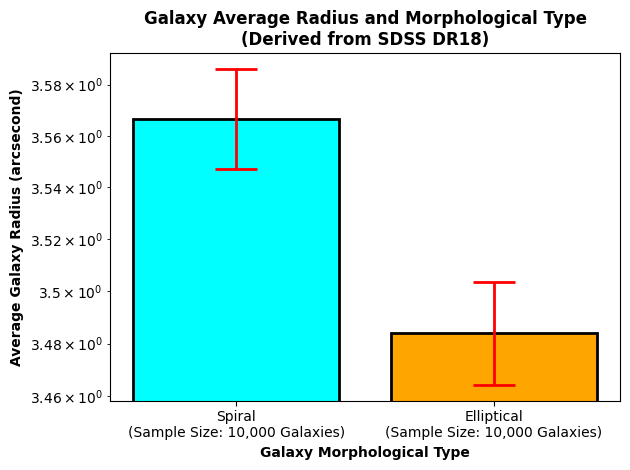
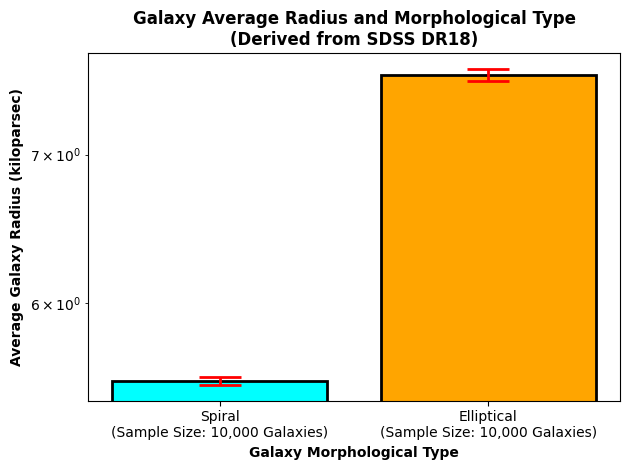
Updated radius calculation.
Instead of using the angular radius of a galaxy for this analysis, I converted the angular radius to the object's physical radius for better analysis using Astropy.

diff --git a/SurfaceStellarDensityandGalaxyTypesResearch/dataAnalysis.py b/SurfaceStellarDensityandGalaxyTypesResearch/dataAnalysis.py
@@ -1,5 +1,6 @@
 import math
 from scipy import stats
+from astropy.cosmology import Planck18 as p18
 import pandas as pd
 import numpy as np
 import matplotlib.pyplot as plt
@@ -11,6 +12,7 @@ ellipticalGalDataCSV = pd.read_csv('SkyserverData/SkyServerDR18_EllipticalStella
 # Eliminate any whitespace in the column names in the CSV files:
 spiralGalDataCSV.columns = spiralGalDataCSV.columns.str.strip()
 ellipticalGalDataCSV.columns = ellipticalGalDataCSV.columns.str.strip()
+
 
 # Unpack spiral galaxy data:
 spiralSloanID = spiralGalDataCSV['ID'].to_numpy()
@@ -30,19 +32,28 @@ ellipticalMedStelMassRaw = ellipticalGalDataCSV['MedianStellarMass_dex_solarmass
 ellipticalMedStelMass = np.power(10, ellipticalMedStelMassRaw)
 ellipticalDeVanRadRBand = ellipticalGalDataCSV['DeVancoulerGalRad_bandR_arcsec'].to_numpy()
 
+
 # Create galaxy morphology type array:
 galMorphTypeNames1 = np.array(["Spiral\n(Sample Size: 10,000 Galaxies)", "Elliptical\n(Sample Size: 10,000 Galaxies)"])
 galMorphTypeNames2 = np.array(["Spiral (Sample Size: 10,000 Galaxies)", "Elliptical (Sample Size: 10,000 Galaxies)"])
 
 
-# Functions for data analysis:
-def stelSurfDen(stelMass, rad):
+# Functions for calculations of data:
+def stelSurfDen(stelMass, physRad):
     # SD* = M* / π(R^2)
-    return (stelMass / (math.pi * (rad)**2))
+    return (stelMass / (math.pi * (physRad)**2))
 
 def stdError(data):
     # SE = σ / √(N)
     return ((np.std(data, ddof = 1)) / ((data.size)**0.5))
+
+def galRadKPC(redshift, arcsecRad):
+    # R (in units kpc) = Da * θ * 1000
+    angDiamDist = p18.angular_diameter_distance(redshift).value
+
+    radianRad = arcsecRad / 206264.8062471
+
+    return ((angDiamDist * radianRad) * 1000)
 
 def tTest(groups):
     # Use T-Test to find out how statistically significant the difference is between two pieces of data.
@@ -56,14 +67,17 @@ def correlTest(x, y):
 
     return np.array([correlCoeff, pVal])
 
-def analyzeAvgStelSurfDenandGalType(galTypeNames, stelMassSpiral, radSpiral, stelMassElliptical, radElliptical):
+# Functions for data analysis:
+def analyzeAvgStelSurfDenandGalType(galTypeNames, stelMassSpiral, radSpiral, zSpiral, stelMassElliptical, radElliptical, zElliptical):
     # Spiral:
-    stelSurfDenDataSpiral = stelSurfDen(stelMassSpiral, radSpiral)
+    radPhysSpiral = galRadKPC(zSpiral, radSpiral)
+    stelSurfDenDataSpiral = stelSurfDen(stelMassSpiral, radPhysSpiral)
     stelSurfDenAvgSpiral = np.mean(stelSurfDenDataSpiral)
     stelSurfDenErrorSpiral = stdError(stelSurfDenDataSpiral)
 
     # Elliptical:
-    stelSurfDenDataElliptical = stelSurfDen(stelMassElliptical, radElliptical)
+    radPhysElliptical = galRadKPC(zElliptical, radElliptical)
+    stelSurfDenDataElliptical = stelSurfDen(stelMassElliptical, radPhysElliptical)
     stelSurfDenAvgElliptical = np.mean(stelSurfDenDataElliptical)
     stelSurfDenErrorElliptical = stdError(stelSurfDenDataElliptical)
 
@@ -74,6 +88,7 @@ def analyzeAvgStelSurfDenandGalType(galTypeNames, stelMassSpiral, radSpiral, ste
 
     # T-Test:
     tResult = tTest(stelSurfDenDataGrouped)
+
 
     # Set up display parameters:
     barGraphColors = ['cyan', 'orange']
@@ -86,7 +101,7 @@ def analyzeAvgStelSurfDenandGalType(galTypeNames, stelMassSpiral, radSpiral, ste
 
     plt.yscale('log')
     plt.xlabel("Galaxy Morphological Type", fontweight = 'bold')
-    plt.ylabel("Average Stellar Surface Density (M☉/(arcsecond^2))", fontweight = 'bold')
+    plt.ylabel("Average Stellar Surface Density (M☉/(kpc^2))", fontweight = 'bold')
     plt.title("Galaxy Average Stellar Surface Density and Morphological Type\n(Derived from SDSS DR18)", fontweight = 'bold')
 
     plt.tight_layout()
@@ -140,17 +155,19 @@ def analyzeAvgMedStelMassandGalType(galTypeNames, stelMassSpiral, stelMassEllipt
 
     return
 
-def analyzeAvgGalRadandGalType(galTypeNames, radSpiral, radElliptical):
+def analyzeAvgGalRadandGalType(galTypeNames, radSpiral, zSpiral, radElliptical, zElliptical):
     # Spiral:
-    galRadAvgSpiral = np.mean(radSpiral)
-    galRadErrorSpiral = stdError(radSpiral)
+    radPhysSpiral = galRadKPC(zSpiral, radSpiral)
+    galRadAvgSpiral = np.mean(radPhysSpiral)
+    galRadErrorSpiral = stdError(radPhysSpiral)
 
     # Elliptical:
-    galRadAvgElliptical = np.mean(radElliptical)
-    galRadErrorElliptical = stdError(radElliptical)
+    radPhysElliptical = galRadKPC(zElliptical, radElliptical)
+    galRadAvgElliptical = np.mean(radPhysElliptical)
+    galRadErrorElliptical = stdError(radPhysElliptical)
 
     # Group spiral and elliptical:
-    galRadDataGrouped = np.array([radSpiral, radElliptical])
+    galRadDataGrouped = np.array([radPhysSpiral, radPhysElliptical])
     avgGalRads = np.array([galRadAvgSpiral, galRadAvgElliptical])
     galRadErrors = np.array([galRadErrorSpiral, galRadErrorElliptical])
 
@@ -168,7 +185,7 @@ def analyzeAvgGalRadandGalType(galTypeNames, radSpiral, radElliptical):
 
     plt.yscale('log')
     plt.xlabel("Galaxy Morphological Type", fontweight = 'bold')
-    plt.ylabel("Average Galaxy Radius (arcsecond)", fontweight = 'bold')
+    plt.ylabel("Average Galaxy Radius (kiloparsec)", fontweight = 'bold')
     plt.title("Galaxy Average Radius and Morphological Type\n(Derived from SDSS DR18)", fontweight = 'bold')
 
     plt.tight_layout()
@@ -183,14 +200,16 @@ def analyzeAvgGalRadandGalType(galTypeNames, radSpiral, radElliptical):
 
 def analyzeStelSurfDenandRedshift(galTypeNames, stelMassSpiral, radSpiral, zSpiral, stelMassElliptical, radElliptical, zElliptical):
     # Spiral:
-    stelSurfDenDataSpiral = stelSurfDen(stelMassSpiral, radSpiral)
+    radPhysSpiral = galRadKPC(zSpiral, radSpiral)
+    stelSurfDenDataSpiral = stelSurfDen(stelMassSpiral, radPhysSpiral)
 
     # Elliptical:
-    stelSurfDenDataElliptical = stelSurfDen(stelMassElliptical, radElliptical)
+    radPhysElliptical = galRadKPC(zElliptical, radElliptical)
+    stelSurfDenDataElliptical = stelSurfDen(stelMassElliptical, radPhysElliptical)
 
     # Pearson Correlational Test:
-    correlResultSpiral = correlTest(zSpiral, stelMassSpiral)
-    correlResultElliptical = correlTest(zElliptical, stelMassElliptical)
+    correlResultSpiral = correlTest(zSpiral, stelSurfDenDataSpiral)
+    correlResultElliptical = correlTest(zElliptical, stelSurfDenDataElliptical)
 
     # Display Data:
     plt.clf()
@@ -219,15 +238,16 @@ def analyzeStelSurfDenandRedshift(galTypeNames, stelMassSpiral, radSpiral, zSpir
 
     return
 
+
 # Call function:
 print("Average Stellar Surface Density and Galaxy Type:")
-analyzeAvgStelSurfDenandGalType(galMorphTypeNames1, spiralMedStelMass, spiralExpRadRBand, ellipticalMedStelMass, ellipticalDeVanRadRBand)
+analyzeAvgStelSurfDenandGalType(galTypeNames = galMorphTypeNames1, stelMassSpiral = spiralMedStelMass, radSpiral = spiralExpRadRBand, zSpiral = spiralZ, stelMassElliptical = ellipticalMedStelMass, radElliptical = ellipticalDeVanRadRBand, zElliptical = ellipticalZ)
 
 print("\nAverage Stellar Median Mass and Galaxy Type:")
-analyzeAvgMedStelMassandGalType(galMorphTypeNames1, spiralMedStelMass, ellipticalMedStelMass)
+analyzeAvgMedStelMassandGalType(galTypeNames = galMorphTypeNames1, stelMassSpiral = spiralMedStelMass, stelMassElliptical = ellipticalMedStelMass)
 
 print("\nAverage Galaxy Radius and Galaxy Type:")
-analyzeAvgGalRadandGalType(galMorphTypeNames1, spiralExpRadRBand, ellipticalDeVanRadRBand)
+analyzeAvgGalRadandGalType(galTypeNames = galMorphTypeNames1, radSpiral = spiralExpRadRBand, zSpiral = spiralZ, radElliptical = ellipticalDeVanRadRBand, zElliptical = ellipticalZ)
 
 print("\nStellar Surface Density and Redshift:")
-analyzeStelSurfDenandRedshift(galMorphTypeNames2, spiralMedStelMass, spiralExpRadRBand, spiralZ, ellipticalMedStelMass, ellipticalDeVanRadRBand, ellipticalZ)
+analyzeStelSurfDenandRedshift(galTypeNames = galMorphTypeNames2, stelMassSpiral = spiralMedStelMass, radSpiral = spiralExpRadRBand, zSpiral = spiralZ, stelMassElliptical = ellipticalMedStelMass, radElliptical = ellipticalDeVanRadRBand, zElliptical = ellipticalZ)
